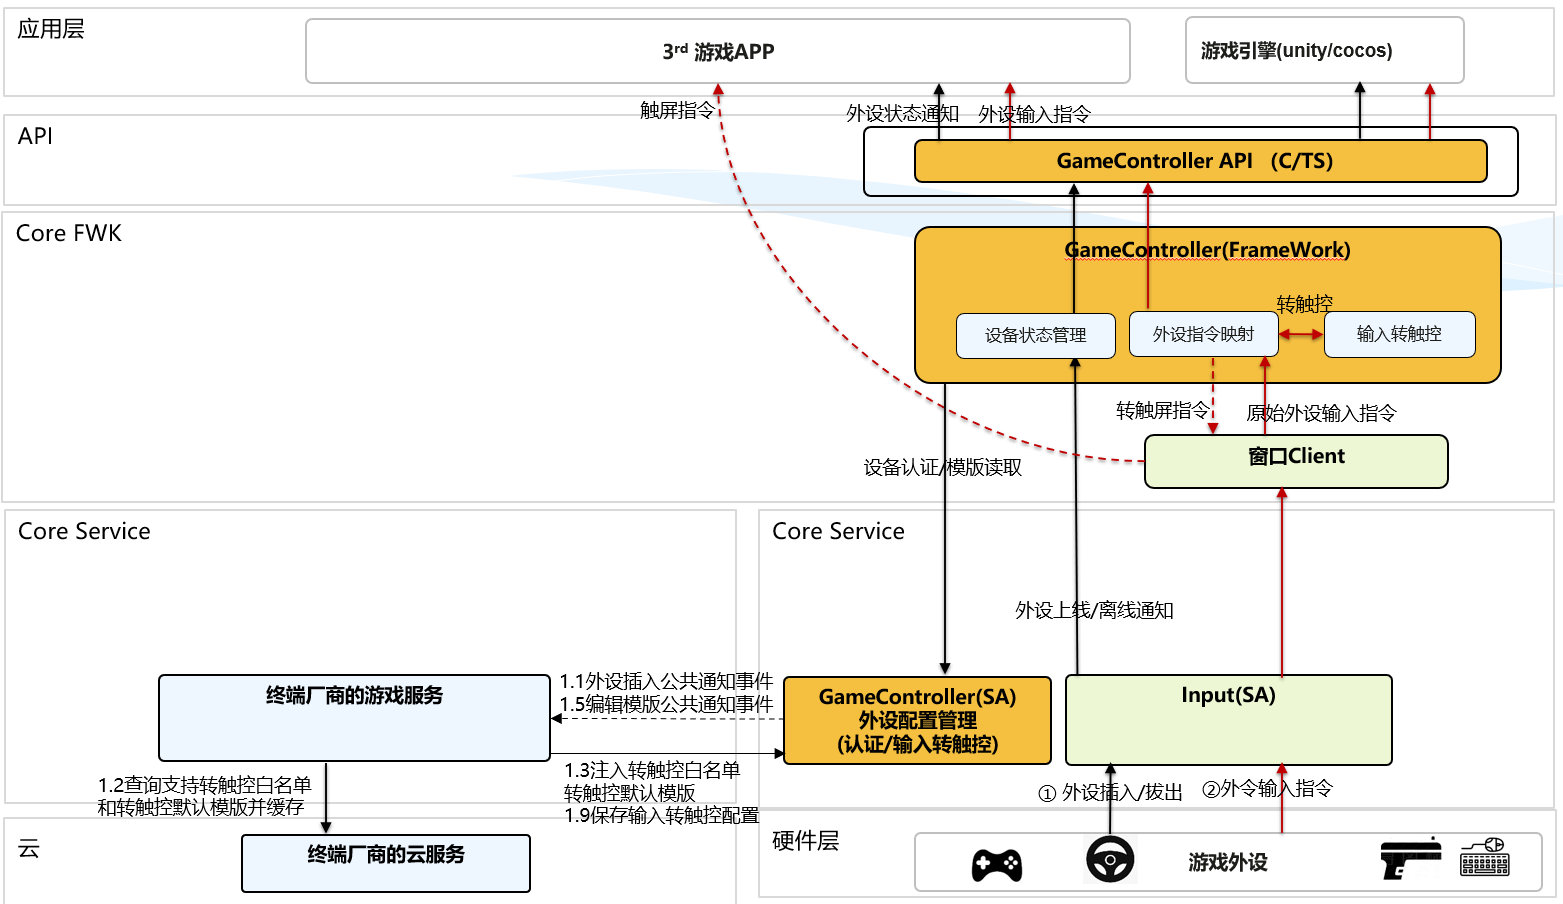
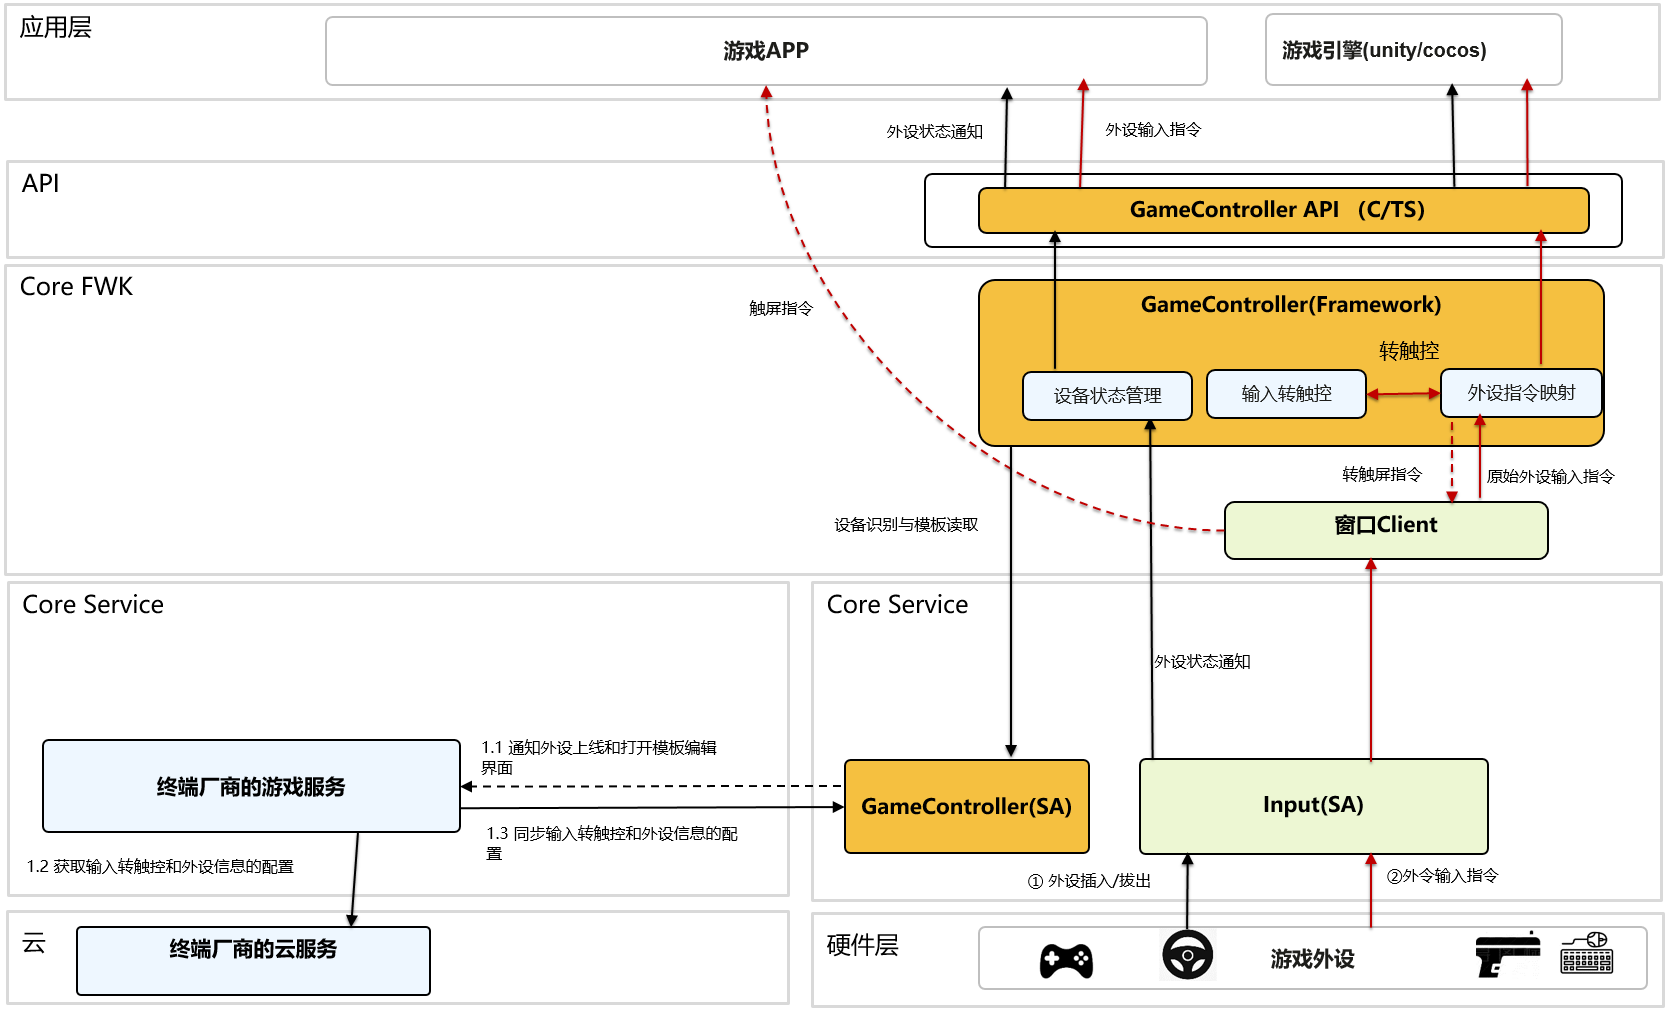
readme修改

diff --git a/README.md b/README.md
@@ -2,46 +2,69 @@
 
 ## Introduction
 
-The GameController provides game developers with APIs for integrating gaming peripherals and offers device manufacturers
-the capability
-to convert input into touch controls.
-The game_controller_framework is the framework layer of GameController, designed to provide listening capabilities for
-the connection
-and disconnection of gaming peripherals and the monitoring of input events from these peripherals. It also offers device
-manufacturers
-the ability to implement input-to-touch conversion.
+The GameController is designed to provide game developers with the capability to integrate game peripherals and
+to offer terminal device manufacturers the ability to convert input into touch controls.
+It consists of two components: the game_controller_framework and the game_controller_service.
+Currently, the component in use is the game_controller_framework.
+
+- The game_controller_framework serves as the framework layer for GameController. Its primary functions include:
+    - Providing API interfaces for game developers to implement the monitoring of the connection and disconnection
+      of game peripherals, as well as the input monitoring of these peripherals.
+    - Enabling terminal device manufacturers to offer gamers the ability to play games using peripherals such as
+      keyboards and mouse, without requiring game developers to adapt their software, through the input-to-touch
+      conversion feature.
+    - Offering InnerApi to terminal device manufacturers for configuring information about
+      game peripherals and the input-to-touch conversion settings.
 
 System Architecture Diagram:
 ![System Architecture Diagram](./figures/system_arch_en.PNG)
 Core Modules of GameControllerFramework:
 ![Code Architecture Diagram](./figures/code_arch.PNG)
 
-- **window**
+- **Window**
 
-1) Register the devices that need to be intercepted and monitored at the window,
-   and intercept input events from peripherals.
+1) Registering with the window requires intercepting and listening to input events from game peripherals.
+    - If the developer calls the API to listen to input events from game peripherals,
+      the intercepted input event callbacks will be notified to the game.
+    - If the game is configured to support input-to-touch conversion, the intercepted input events from
+      game peripherals will be used for the input-to-touch feature.
 
-2) Monitor window size and state changes.
+2) Monitor window size changes for use in input-to-touch feature.
 
-- **multi_modal_input**
+- **MultiModalInput**
 
-1) Interface with multi-mode inputs to monitor the online and offline events of devices.
-2) When a device goes online, perform device authentication for the peripheral.
+1) Connect to multi-mode-input and monitor the online and offline events of gaming peripherals.
 
-- **key_mapping**
+    - If the developer calls the API to monitor the online and offline events of gaming peripherals, the online and
+      offline event callbacks of the gaming peripherals will be notified to the game.
+    - If the game is configured to support input-to-touch conversion, the corresponding input-to-touch conversion
+      template for the gaming peripheral type will be loaded.
 
-1) Read the configuration to determine whether to enable the input-to-touch function.
-2) Read the template configuration for key mapping.
-3) Monitor the device's key information and send a notification to open the edit template configuration.
-4) Based on the key mapping template configuration, convert input into touch commands.
+2) Upon receiving the gaming equipment online, identify the category of the gaming peripherals.
 
-- **gamecontroller_service**
+- **KeyMapping**
 
-Provide the InnerAPI interface for GameControllerService.
+1) Read the configuration from game_support_key_mapping.json to determine whether to enable the input-to-touch
+   functionality.
+2) Read the corresponding game peripheral type's touch conversion template from the game_controller_service.
+3) Based on the input events and categories of gaming peripherals, determine whether to send a notification for
+   configuring the input-to-touch template.
+    - When the keyboard inputs Q, W, or P, it indicates the need to open the input-to-touch template configuration
+      page for the keyboard.
+    - When the floating controller function key is clicked, it indicates the need to open the input-to-touch template
+      configuration interface for the floating controller.
 
-- **bundle_info**
+4) Based on the input-to-touch template, the input events of gaming peripherals (such as key events, mouse events, etc.)
+   are converted into touchscreen events on the screen.
 
-Retrieve information about the current application.
+- **GameControllerService**
+
+Provide the InnerAPI interface of the game_controller_service to terminal manufacturers for configuring game peripheral
+information and input-to-touch conversion data.
+
+- **BundleInfo**
+
+Obtain information about the current application for input-to-touch conversion features.
 
 ## Directory Structure
 
@@ -100,9 +123,8 @@ Retrieve information about the current application.
 
 ## Related Repository
 
-- [Game Controller Service](https://gitcode.com/openharmony-sig/game_game_controller_service)
+[Game Controller Service](https://gitcode.com/openharmony-sig/game_game_controller_service)
 
 ## Constraints
 
-- Programming language version
-    - C++ 11 or later
+Programming language version: C++ 11 or later

diff --git a/README_zh.md b/README_zh.md
@@ -2,44 +2,60 @@
 
 ## 简介
 
-GameController用于给游戏开发者提供游戏外设接入能力的API以及给设备厂商提供输入转触控能力。
-其中game_controller_framework为GameController的framework层，用于提供游戏外设上下线监听和外设输入事件监听；
-以及给设备厂商提供输入转触控的实现能力。
+GameController用于给游戏开发者提供游戏外设接入能力以及给终端设备厂商提供输入转触控能力。
+它由game_controller_framework和game_controller_service两个部件构成。当前部件为game_controller_framework。
+
+- game_controller_framework为GameController的framework层。主要作用为：
+    - 给游戏开发者提供API接口，实现对游戏外设的上下线的监听以及游戏外设的输入监听。
+    - 通过输入转触控功能，在不需要游戏厂商适配的情况下，终端设备厂商可以给游戏玩家提供通过键盘、鼠标等游戏外设玩游戏的能力。
+    - 给终端设备厂商提供InnerApi用于配置游戏外设的信息和输入转触控的信息。
+- game_controller_service为GameController的CoreService层。主要作用为：
+    - 实现游戏外设信息保存到配置文件device_config.json。
+    - 实现支持输入转触控游戏的名单列表保存到配置文件game_support_key_mapping.json。
+    - 实现游戏的默认转触控模板保存到配置文件default_key_mapping.json和自定义模板保存到配置文件custom_key_mapping.json。
+    - 实现对游戏外设类别的识别。
+    - 实现获取在特定游戏游戏下对应的默认和自定义的输入转触控模板信息。
 
 系统架构图：
 ![系统架构图](./figures/system_arch.PNG)
+
 GameControllerFramework内部核心模块：
 ![代码架构图](./figures/code_arch.PNG)
 
-- **window**
+- **Window**
 
-1) 向窗口注册需要拦截监听的设备并拦截外设的输入事件。
+1) 向窗口注册需要拦截监听的游戏外设的输入事件
+    - 如果开发者调用API监听游戏外设的输入事件，则将拦截的游戏外设输入事件回调通知给游戏。
+    - 如果游戏被配置支持输入转触控，则将拦截的游戏外设输入事件用于输入转触控特性。
 
-2) 监听窗口大小变化。
+2) 监听窗口大小变化，用于输入转触控特性。
 
-- **multi_modal_input**
+- **MultiModalInput**
 
-1) 对接多模输入，监听设备的上线和下线事件。
+1) 对接多模输入，监听游戏外设的上线和下线事件。
+    - 如果开发者调用API监听游戏外设的上线和下线事件，则将游戏外设的上线和下线事件回调通知给游戏。
+    - 如果游戏被配置支持输入转触控，则加载对应游戏外设类型的输入转触控模板。
+2) 收到游戏设备上线时，对游戏外设的设备类别进行识别。
 
-2) 设备上线时，执行外设识别。
+- **KeyMapping**
 
-- **key_mapping**
+1) 从game_support_key_mapping.json读取配置判断是否需要启动输入转触控功能。
 
-1) 读取配置判断是否需要启动输入转触控功能。
+2) 从game_controller_service读取对应游戏外设类型的转触控模板。
 
-2) 读取按键映射的模板配置。
+3) 基于游戏外设的输入事件和游戏外设类别，判断是否需要发送编辑输入转触控模板配置的通知。
+    - 键盘输入Q、W、P时，表示需要打开键盘的输入转触控的模板配置界面。
+    - 单击悬浮手柄功能键时，表示需要打开悬浮手柄的输入转触控的模板配置界面。
 
-3) 监听设备按键信息，发送打开编辑模板配置的通知。
+4) 基于输入转触控模板，将游戏外设的输入事件（按键事件、鼠标事件等）转为屏幕的触屏事件。
 
-4) 基于按键映射模板配置，将输入转为触控指令。
+- **GameControllerService**
 
-- **gamecontroller_service**
+提供game_controller_service的InnerAPI接口给终端厂商配置游戏外设的信息和输入转触控的信息。
 
-提供GameControllerService的InnerAPI接口。
+- **BundleInfo**
 
-- **bundle_info**
-
-获取当前应用的信息。
+获取当前应用的信息，用于输入转触控特性。
 
 ## 目录
 
@@ -90,17 +106,16 @@ GameControllerFramework内部核心模块：
 
 ## 参考文档
 
-[开发指南](https://gitcode.com/weixin_42784160/docs/blob/master/zh-cn/application-dev/game-controller/Readme-CN.md)
+- [开发指南](https://gitcode.com/weixin_42784160/docs/blob/master/zh-cn/application-dev/game-controller/Readme-CN.md)
 
-[API文档](https://gitcode.com/weixin_42784160/docs/blob/master/zh-cn/application-dev/reference/apis-game-controller-kit/Readme-CN.md)
+- [API文档](https://gitcode.com/weixin_42784160/docs/blob/master/zh-cn/application-dev/reference/apis-game-controller-kit/Readme-CN.md)
 
-[输入转触控特性](https://gitcode.com/openharmony-sig/game_game_controller_framework/wiki/%E8%BE%93%E5%85%A5%E8%BD%AC%E8%A7%A6%E6%8E%A7%E7%89%B9%E6%80%A7.md)
+- [输入转触控特性](https://gitcode.com/openharmony-sig/game_game_controller_framework/wiki/%E8%BE%93%E5%85%A5%E8%BD%AC%E8%A7%A6%E6%8E%A7%E7%89%B9%E6%80%A7.md)
 
 ## 相关仓
 
-- [Game Controller Service](https://gitcode.com/openharmony-sig/game_game_controller_service)
+[Game Controller Service](https://gitcode.com/openharmony-sig/game_game_controller_service)
 
 ## 约束
 
-- 语言版本
-    - C++11或以上
+语言版本：C++11或以上
